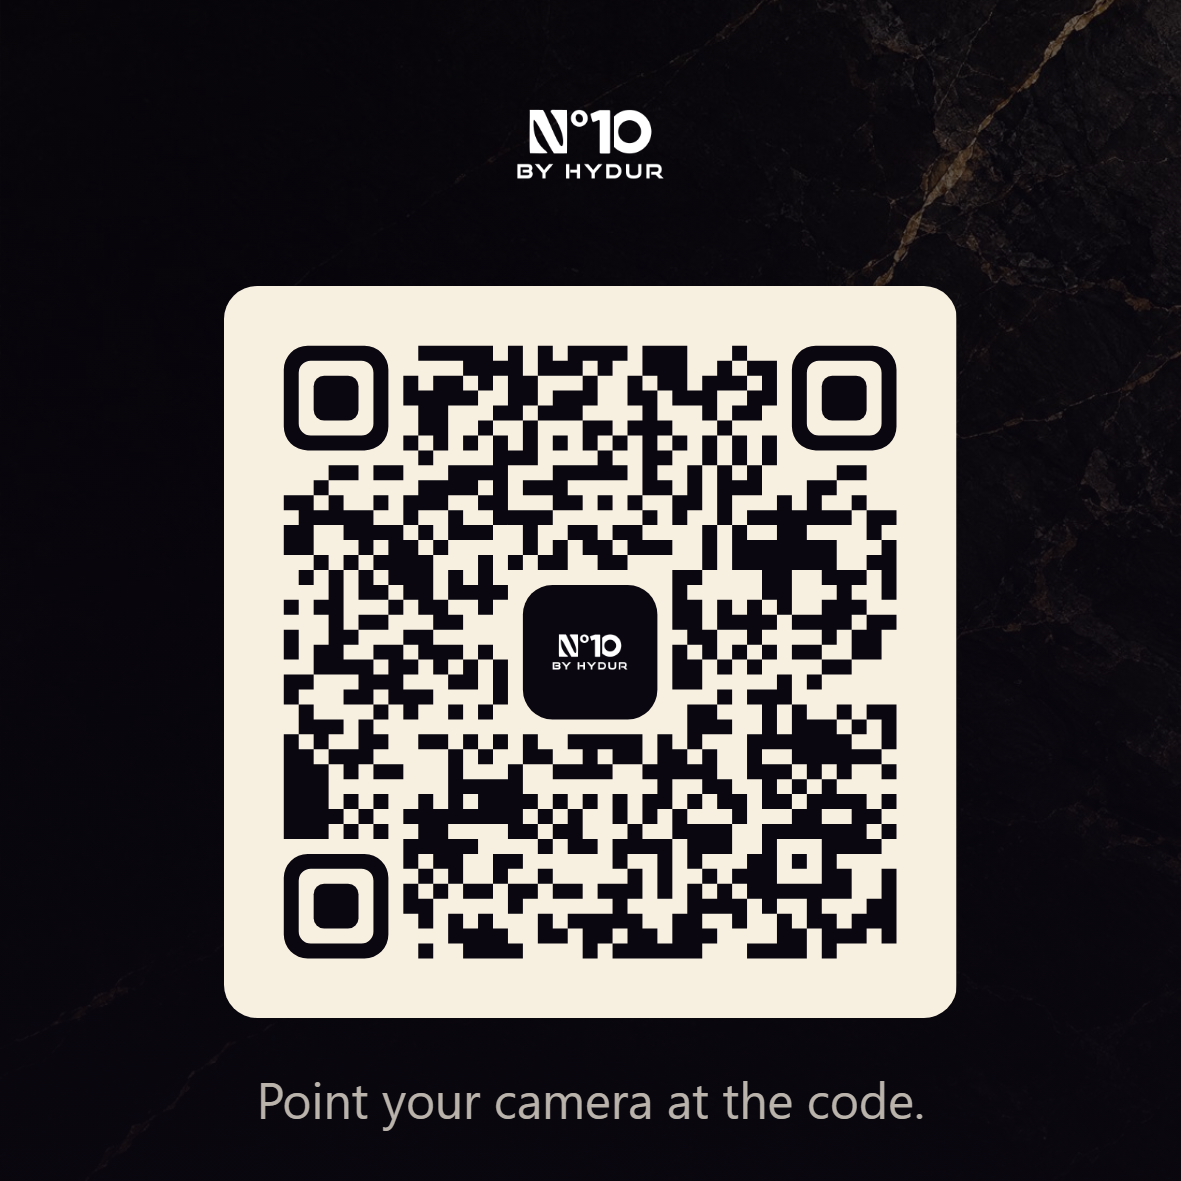
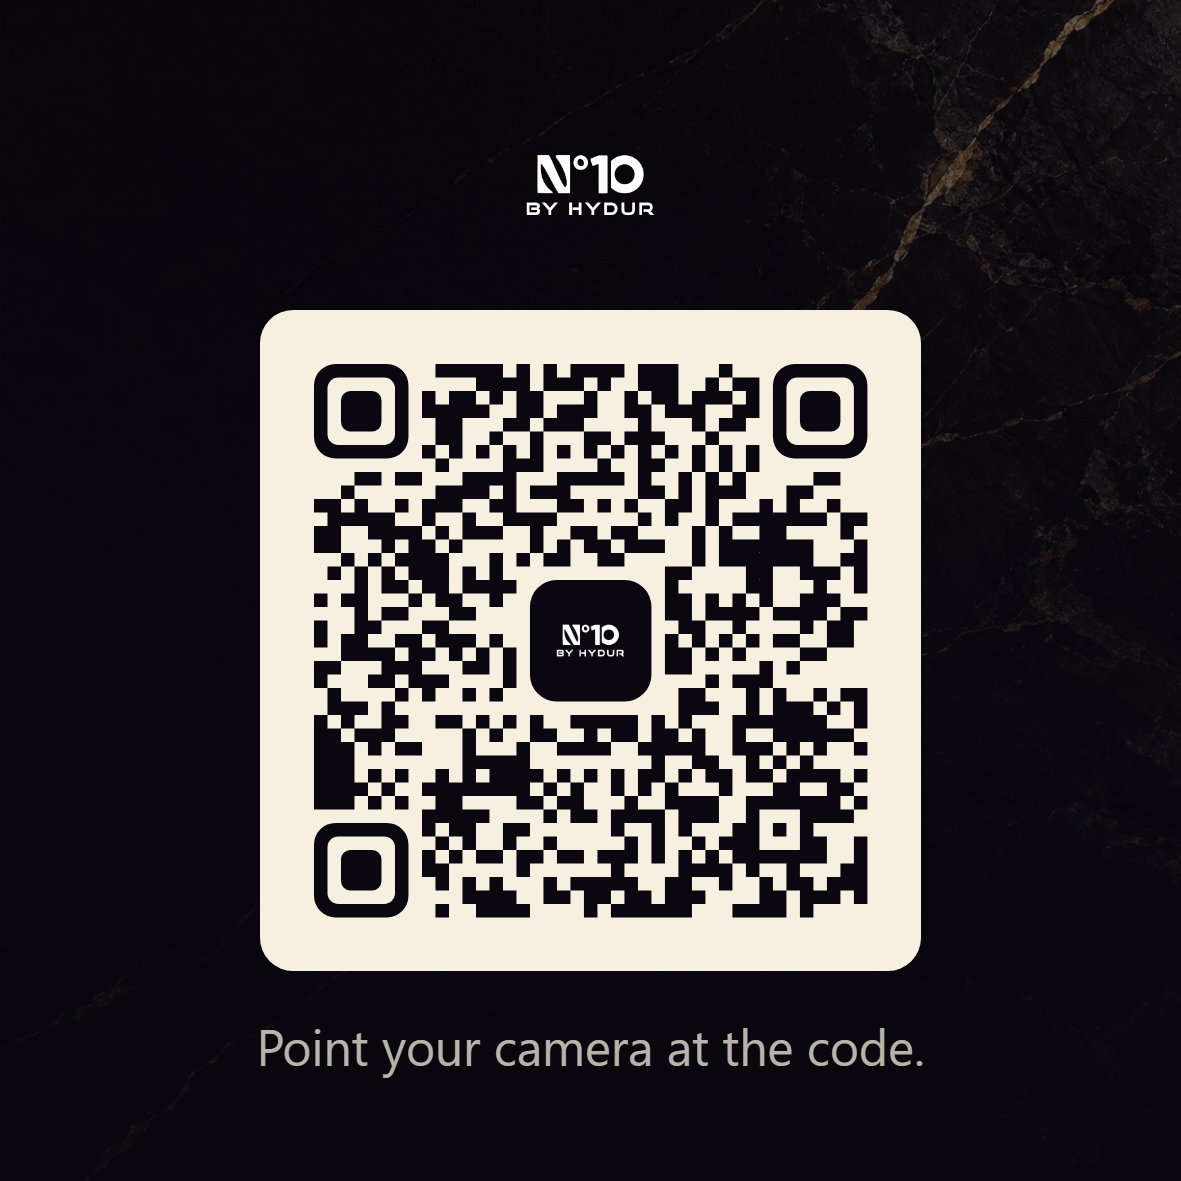
Print-ready 'Join our rewards' poster and QR sticker with the real join link
scripts/poster.mjs makes A5 and A4 (PNG 300 dpi + PDF, each with and without 3 mm bleed) and a
100 mm sticker in the approved Crest centre style (level H), pointing at JOIN_URL (default
https://loyalty-platform-steel.vercel.app/join/n10; --url or JOIN_URL to change it). Every PNG
decodes to exactly that link with jsQR at full size, at 400 px and after a camera-like capture;
PDFs are checked for one page and the right size; the printed QR size is measured from the
decoded corners (report.json). README.md explains which file to print. The QR drawing moved to
scripts/qr-style.mjs, shared with qr-variants.mjs (its results are unchanged).

Changed region(s): [[0.1829, 0.2439, 0.823, 0.945], [0.4268, 0.0914, 0.5792, 0.1829]]

diff --git a/web/public/design/poster/src/sticker-100mm.html b/web/public/design/poster/src/sticker-100mm.html
@@ -4,11 +4,11 @@
   @page { size: 100mm 100mm; margin: 0; }
   * { box-sizing: border-box; margin: 0; }
   html, body { width: 100mm; height: 100mm; -webkit-print-color-adjust: exact; print-color-adjust: exact; }
-  body { display: flex; flex-direction: column; align-items: center; justify-content: center; gap: 4mm; color: #f7f0e1;
+  body { display: flex; flex-direction: column; align-items: center; justify-content: center; gap: 3.5mm; color: #f7f0e1;
     font-family: system-ui, -apple-system, "Segoe UI", Roboto, Arial, sans-serif;
     background: linear-gradient(180deg, rgba(10,7,16,.6), rgba(10,7,16,.9)), url(marble.jpg) 70% 20% / cover, #0a0710; }
-  .crest { width: 16mm; height: auto; }
-  .qr { flex: none; width: 62mm; height: 62mm; border-radius: 2.8mm; overflow: hidden; }
+  .crest { width: 14mm; height: auto; }
+  .qr { flex: none; width: 56mm; height: 56mm; border-radius: 2.8mm; overflow: hidden; }
   .qr svg { display: block; }
   p { font-size: 4.2mm; color: color-mix(in srgb, #f7f0e1 74%, #0a0710); }
 </style></head>

diff --git a/web/public/design/poster/README.md b/web/public/design/poster/README.md
@@ -1,0 +1,43 @@
+# "Join our rewards" print files (N10)
+
+The QR code on every file opens: https://loyalty-platform-steel.vercel.app/join/n10
+
+## Which file for what
+
+| You want | Send the printer | Size |
+|---|---|---|
+| A5 poster or table card, printed and then cut | `poster-A5-bleed3mm.pdf` | 148 x 210 mm (the file is 154 x 216 mm: 3 mm extra on each side for cutting) |
+| A5 printed on your own printer, no cutting | `poster-A5.pdf` | 148 x 210 mm |
+| A4 poster, printed and then cut | `poster-A4-bleed3mm.pdf` | 210 x 297 mm (the file is 216 x 303 mm) |
+| A4 printed on your own printer, no cutting | `poster-A4.pdf` | 210 x 297 mm |
+| Sticker or plate for the door, the tables or the NFC plates | `sticker-100mm.png` | 100 x 100 mm |
+
+- Use the **PDF** when the printer accepts it. The PNG files are the same designs as pictures at 300 dpi, for printers or apps that want an image.
+- **"Bleed"** means the dark marble goes 3 mm past the cutting line, so there is no white edge after cutting. Tell the printer: "3 mm bleed, cut to A5" (or A4).
+- **Paper:** a thick matt or silk paper, about 250 to 350 gsm, for posters and table cards. Matt cuts reflections, so the code scans better under lights. For the sticker, use matt vinyl. Ask the printer about a lamination that is not glossy.
+
+## Before you print many
+
+1. **Order ONE test print first.**
+2. **Scan it with two different phones, an iPhone and an Android**, using the normal camera app, from about an arm's length. It must open the join page.
+3. Only then print the rest.
+
+## Things to know
+
+- **Colours look different on paper.** Screens show RGB colours; on paper the same file usually comes out darker and duller. Gold can look brownish.
+- **Dark backgrounds can look muddy on cheap printers.** The marble may turn into flat dark grey and the fine gold frame line may fade. A professional print shop does better than an office printer.
+- **The QR points to the live web address.** The site must stay online at that address, or every printed code stops working. If the address ever changes (for example a new domain), the files must be made again and reprinted.
+- Do not stretch, crop or recolour the code, and do not put stickers or text on the light square around it.
+- The crest image (256 px) and the marble photo (1100 px) are small for large prints. They look fine at A5. At A4, ask for larger originals if the crest or marble looks soft on the test print.
+
+## Size of the code on paper
+
+| File | Light square (with margin) | Black code area |
+|---|---|---|
+| A5 | 75.4 mm | 63.1 mm |
+| A4 | 107 mm | 89.6 mm |
+| Sticker | 56 mm | 46.9 mm |
+
+## For the developer
+
+Made by `web/scripts/poster.mjs` (run it in `web/`). To use another address: `node scripts/poster.mjs --url=https://...` or set `JOIN_URL`. Scan results and measurements: `report.json`. HTML sources: `src/`.
